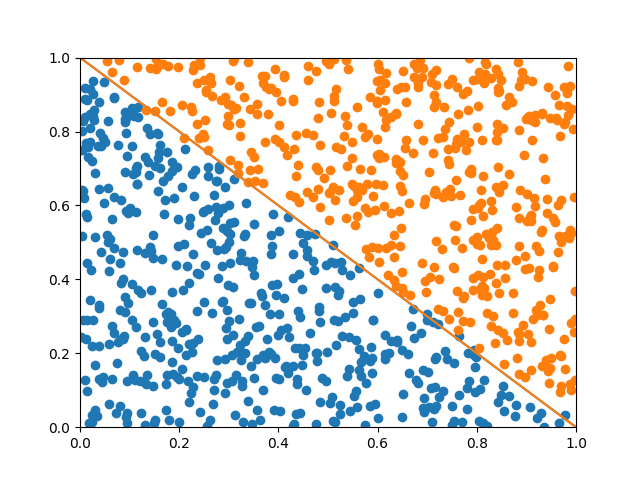
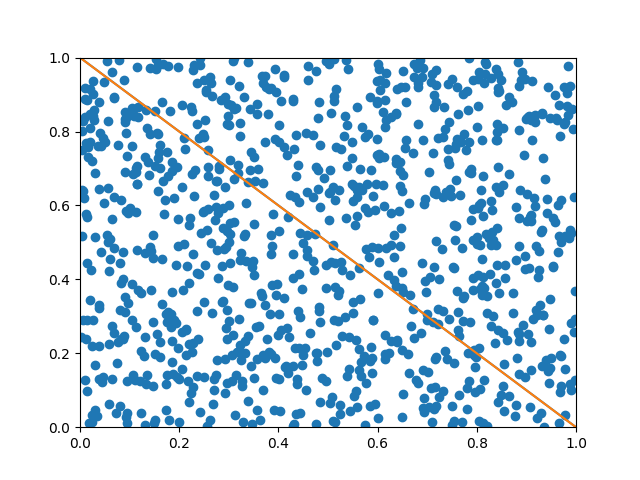
add the non linear demo

Changed region(s): [[0.1562, 0.125, 0.9062, 0.8438]]

diff --git a/src/main.py b/src/main.py
@@ -7,11 +7,11 @@ import os
 
 test_size = 0.1
 batch_size = 20
-train_steps = 20000
+train_steps = 30000
 output_step = 1000
 
 samples = 1000
-margin = 0.2
+margin = 0.01
 
 # Iris data
 # data = load_iris()
@@ -23,7 +23,10 @@ margin = 0.2
 # feature, label = lin_sep_with_ground_truth(samples, margin, random_state=10)
 
 # Blob data
-feature, label = generate_lin_sep_blobs(samples, random_state=10)
+# feature, label = generate_lin_sep_blobs(samples, random_state=10)
+
+# Non linear data
+feature, label = non_lin_sep(samples, margin, random_state=10)
 
 label_hot = to_categorical(label, 2)
 feature_train, feature_test, label_train, label_test = train_test_split(
@@ -65,11 +68,11 @@ with tf.name_scope('train'):
     theta_1 = 0
     cross_entropy_with_weight_decay=tf.add(cross_entropy,theta_1*l2_loss)
 
-    # train_op=tf.train.AdamOptimizer(1e-4).minimize(cross_entropy_with_weight_decay)
+    train_op=tf.train.AdamOptimizer(1e-4).minimize(cross_entropy_with_weight_decay)
     # train_op=tf.train.MomentumOptimizer(1e-4, 0.9).minimize(cross_entropy_with_weight_decay)
     # train_op = tf.train.RMSPropOptimizer(1e-4).minimize(cross_entropy_with_weight_decay)
-    train_op = tf.train.GradientDescentOptimizer(
-    	2e-4).minimize(cross_entropy_with_weight_decay)
+    # train_op = tf.train.GradientDescentOptimizer(
+    # 	2e-4).minimize(cross_entropy_with_weight_decay)
     # train_op = tf.train.GradientDescentOptimizer(5e-4).minimize(hinge_loss)
     # train_op = tf.train.GradientDescentOptimizer(2e-4).minimize(mse)
     # train_op = tf.train.GradientDescentOptimizer(2e-4).minimize(abd)
@@ -152,9 +155,12 @@ print(sorted(loss_rank[-len(support_ind):]))
 # visual_separable_binary(feature_test, pre_label_svm,margin)
 # visual_separable_binary(feature_test, pre_label_nn, margin)
 
+plot_blobs(feature, label,
+	'../result/non_linear_demo/training_data.png')
+
 ## predict the random data, check the exact boundary
 feature_random, label_random = lin_sep_with_ground_truth(samples, 0.0001,
-	random_state=10)
+	random_state=100)
 label_random = to_categorical(label_random, 2)
 pre_label_nn= sess.run(predicted_label,
 	feed_dict={
@@ -163,9 +169,13 @@ pre_label_nn= sess.run(predicted_label,
 
 pre_label_svm = clf.predict(feature_random)
 
-visual_separable_binary(feature_random, pre_label_svm,0.0001,
-	'../result/exploration/svm_cross_entropy.png')
-visual_separable_binary(feature_random, pre_label_nn, 0.0001,
-	'../result/exploration/nn_cross_entropy.png')
+# visual_separable_binary(feature_random, pre_label_svm,0.0001,
+# 	'../result/non_linear_demo/svm_cross_entropy.png')
+# visual_separable_binary(feature_random, pre_label_nn, 0.0001,
+# 	'../result/non_linear_demo/nn_cross_entropy.png')
+plot_blobs(feature_random, pre_label_svm,
+	'../result/non_linear_demo/svm_cross_entropy.png')
+plot_blobs(feature_random, pre_label_nn,
+	'../result/non_linear_demo/nn_cross_entropy.png')
 
 

diff --git a/src/utils.py b/src/utils.py
@@ -85,6 +85,23 @@ def lin_sep_with_ground_truth(size, margin, random_state):
 	return feature, label
 
 
+def non_lin_sep(size, margin, random_state):
+	np.random.seed(random_state)
+	x1 = np.random.rand(size)
+	x2 = np.random.rand(size)
+	feature =  np.vstack([x1,x2]).transpose()
+	z = np.linalg.norm(feature-[0.5,0.5], ord=2, axis=1)
+	feature = feature[(z<=0.2-margin) | (z>=0.2+margin)]
+	z = z[(z<=0.2-margin) | (z>=0.2+margin)]
+	ind_1 = np.where(z>=0.2+margin)[0]
+	ind_2 = np.where(z<=0.2-margin)[0]
+	label = np.zeros(len(feature))
+	label[ind_1] = 0
+	label[ind_2] = 1
+	return feature, label
+
+
+
 def visual_separable_binary(feature,label,margin, name=None):
 	pylab.figure()
 	pylab.scatter(feature[label==0,0],feature[label==0,1])
